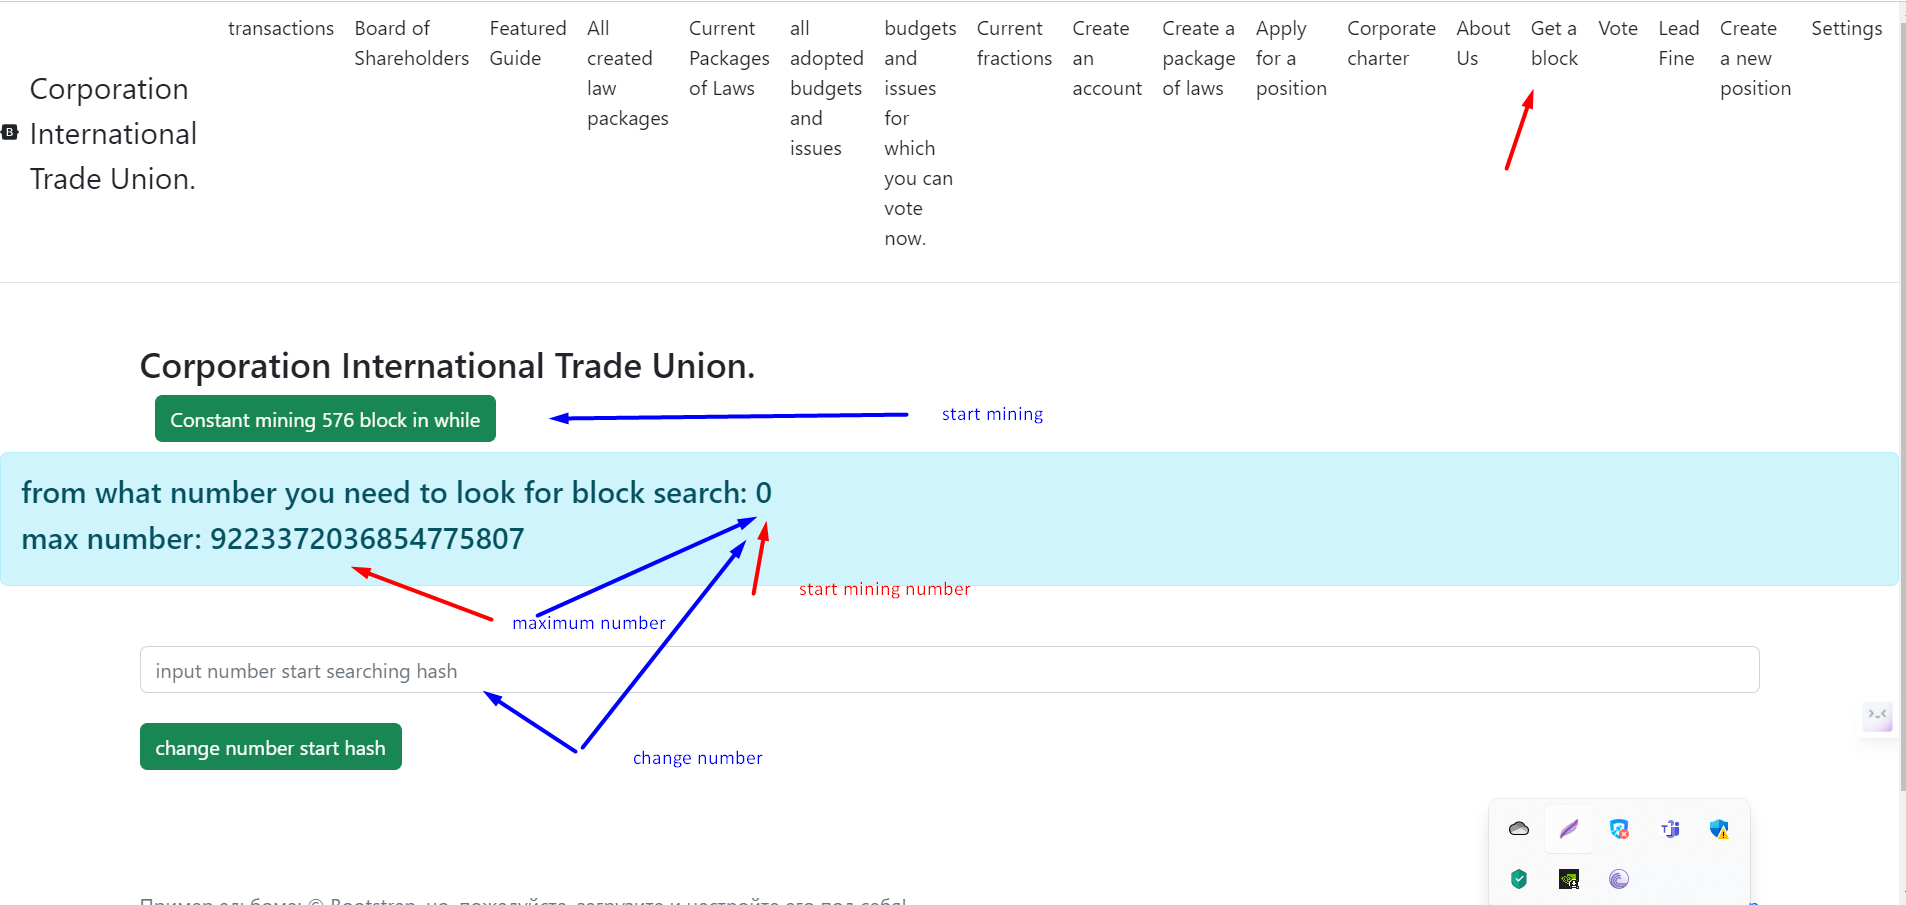
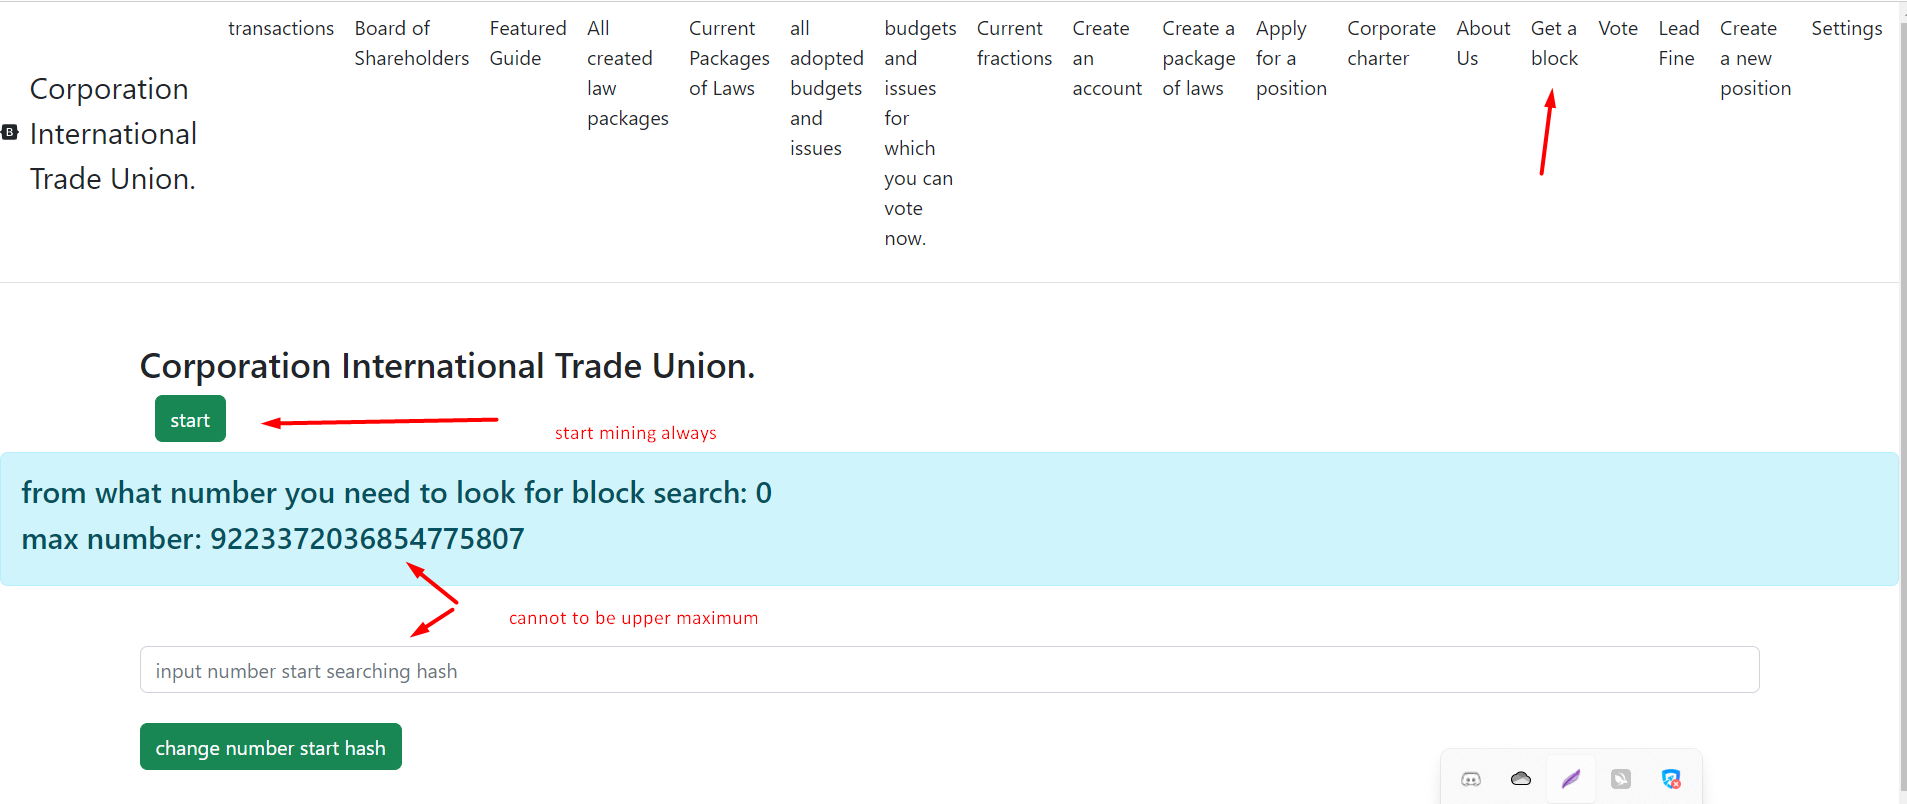
change documentation

diff --git a/documentationEng/documentationEng.md b/documentationEng/documentationEng.md
@@ -35,18 +35,19 @@ and also using direct democracy, but I need you to participate, I am a developer
 code to make the legislative system better. Together we will be like the founding fathers of digital democracy.
 
 What are its benefits.
-1. He has a unique mining system built on the basis of SHA - 256.
+1. It has a unique mining system based on SHA-256.
 2. Difficulty adapts every 12 hours.
-3. Two types of coins are mined at the same time, DIGITAL DOLLARS and DIGITAL SHARES.
-4. A unique system that allows you to mine each block for 400 DIGITAL DOLLARS and 400 DIGITAL SHARES, while the total money supply does not constantly grow, since 0.2% of digital dollars and 0.4% of digital shares are burned from each account every six months.
-5. An election system that allows you to create your own faction and vote on the rules of the network directly.
-6. Budget system, a public budget that can be spent with the help of shareholder votes.
-7. A unique system of government that is built with elements of the English Parliament and a charter that was inspired by the US constitution and Libertarian principles including the NAP.
-8. The ability to mine blocks directly on the local server, which automatically connects to the global server that only stores, updates and gives the current blockchain.
-9. There are 576 blocks per day.
-10. All settings are made taking into account knowledge in the field of Macroeconomics and took into account such schools as Milton Friedman's Monetarism, the Austrian School of Economics (Mises, Hayek), Silvio Gezel - money with demurrage and other books.
-11. The algorithm is designed in such a way that over time the economy will grow more steadily and will have a more stable course, which will prevent future crises such as the Deflationary Spiral and Stagflation, and also allow for the optimal development of all of humanity.
-12. the total number of coins never exceeds 10 billion dollars and will reach this value in about 100 years.
+3. Two types of coins are mined at the same time: DIGITAL DOLLARS and DIGITAL SHARES.
+4. A unique system that allows you to mine each block for (difficulty * 30) + odd if index is even then odd 0, if not 1, while the total money supply does not grow constantly, since every six 0.2% of digital coins are burned from each account dollars and 0.4% of digital stocks months.
+5. An election system that allows you to create your own faction and directly vote according to the rules of the network.
+6. Budgetary system, the state budget, which can be spent with the help of shareholders' votes.
+7. Unique system of government, consisting of elements of the English parliament and a charter inspired by the constitution
+8. USA and libertarian principles, including NAP.
+9. The ability to mine blocks directly on the local server, which automatically connects to the global server, which only stores, updates and returns the current blockchain.
+10. 576 blocks per day.
+11. All settings are made taking into account knowledge in the field of Macroeconomics and took into account such schools as Milton Friedman's Monetarism, the Austrian School of Economics (Mises, Hayek), Silvio Gezel - money with demurrage and other books.
+12. The algorithm is designed in such a way that over time the economy will grow more steadily and have a more stable exchange rate, which will prevent future crises such as the Deflationary Spiral and Stagflation, as well as allow for the optimal development of all of humanity.
+13. The total number of coins never exceeds 10 billion dollars and will reach this value in about 100 years.
 
 Ultimately, this system will be able to function as a Confederation or Federation for humanity.
 and eliminate such problems as financial crises (Deflationary Spiral, Stagflation, Galloping inflation, etc.)

diff --git a/documentation/documentationRus.md b/documentation/documentationRus.md
@@ -41,7 +41,7 @@ https://bitcointalk.org/index.php?topic=5459876.new#new
 1. У него уникальная система майнинга, построенная на базе SHA-256.
 2. Сложность адаптируется каждые 12 часов.
 3. Одновременно добываются два типа монет: ЦИФРОВЫЕ ДОЛЛАРЫ и ЦИФРОВЫЕ АКЦИИ.
-4. Уникальная система, позволяющая майнить каждый блок на 400 ЦИФРОВЫХ ДОЛЛАРОВ и 400 ЦИФРОВЫХ АКЦИЙ, при этом общая денежная масса не растет постоянно, так как каждые шесть с каждого счета сжигается 0,2% цифровых долларов и 0,4% цифровых акций месяцы.
+4. Уникальная система, позволяющая добывать каждый блок на (difficulty * 30) + odd если index четный то odd 0, если нет 1, при этом общая денежная масса не растет постоянно, так как каждые шесть с каждого счета сжигается 0,2% цифровых долларов и 0,4% цифровых акций месяцы.
 5. Система выборов, позволяющая создать собственную фракцию и напрямую голосовать по правилам сети.
 6. Бюджетная система, государственный бюджет, который можно расходовать с помощью голосов акционеров.
 7. Уникальная система правления, состоящая из элементов английского парламента и хартии, вдохновленной конституцией

diff --git a/documentation/mine.md b/documentation/mine.md
@@ -3,13 +3,13 @@
 ## КАК НАЧАТЬ МАЙНИНГ
 Прежде чем приступить к добыче блоков, вы
 вам нужно установить адрес майнера, на который будет добыт блок.
-После того, как вы установили свой адрес в качестве майнера, есть два варианта.
+После того как вы установили свой адрес в качестве майнера, есть два варианта.
 
 
 
 ### ВАРИАНТ 1
-кнопка ***Постоянный майнинг 576 блоков за раз***
-будет цикл из 576 попыток найти блоки
+Нажмите кнопку старт, для остановки добычи нажмите на главную страницу и появиться 
+страница, где будет кнопка стоп.
 ![блок майнинга](../screenshots/mineEng.png)
 
 
@@ -30,7 +30,7 @@
 
 Сложность блокчейна адаптируется аналогично биткойну, но адаптация происходит
 раз в 12 часов (примерно) 288 блоков.
-Каждый блок дает 400 цифровых долларов и 400 цифровых акций.
+Каждый блок дает (difficulty * 30 ) + odd = где odd 0 если индекс блока четный и 1 если не четный
 
 Текущий блокчейн не только самый длинный, но и нулей в нем должно быть больше.
 

diff --git a/documentationEng/ mineEng.md b/documentationEng/ mineEng.md
@@ -1,5 +1,3 @@
-# block mining
-
 ## HOW TO START MINING
 Before you start mining blocks, you
 you need to set the address of the miner to which the block will be mined.
@@ -8,8 +6,8 @@ Once you have set your address as a miner, there are two options.
 
 
 ### OPTION 1
-button ***Permanent mining 576 blocks at a time***
-there will be a cycle of 576 attempts to find blocks
+Press the start button, to stop mining, click on the main page and appear
+the page where the stop button will be.
 ![mining block](../screenshots/mineEng.png)
 
 
@@ -30,7 +28,7 @@ But the number must not be equal to or greater than the maximum value.
 
 Blockchain Difficulty Adapts Like Bitcoin, But Adaptation Happens
 once every 12 hours (approximately) 288 blocks.
-Each block gives you 400 digital dollars and 400 digital shares.
+Each block gives (difficulty * 30 ) + odd = where odd is 0 if the block index is even and 1 if not even
 
 The current blockchain is not only the longest, but there should be more zeros in it.
 
